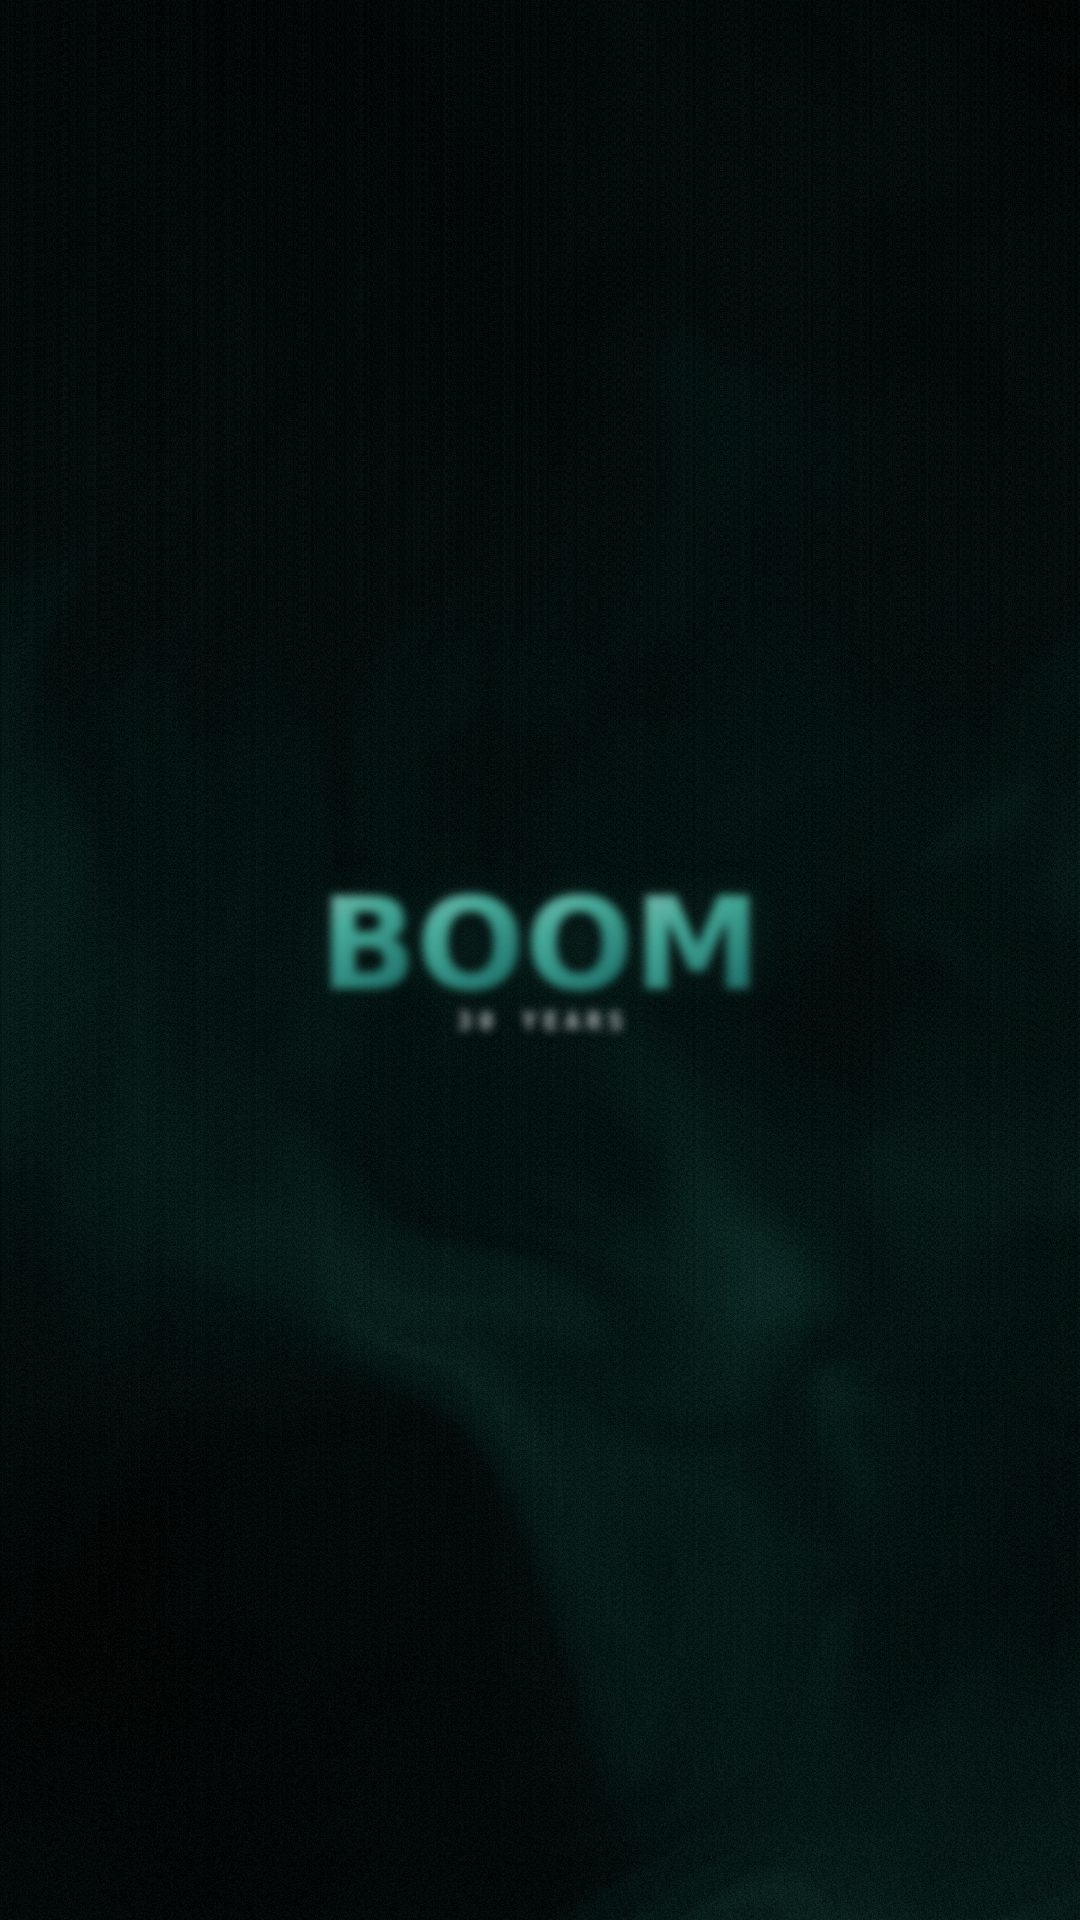
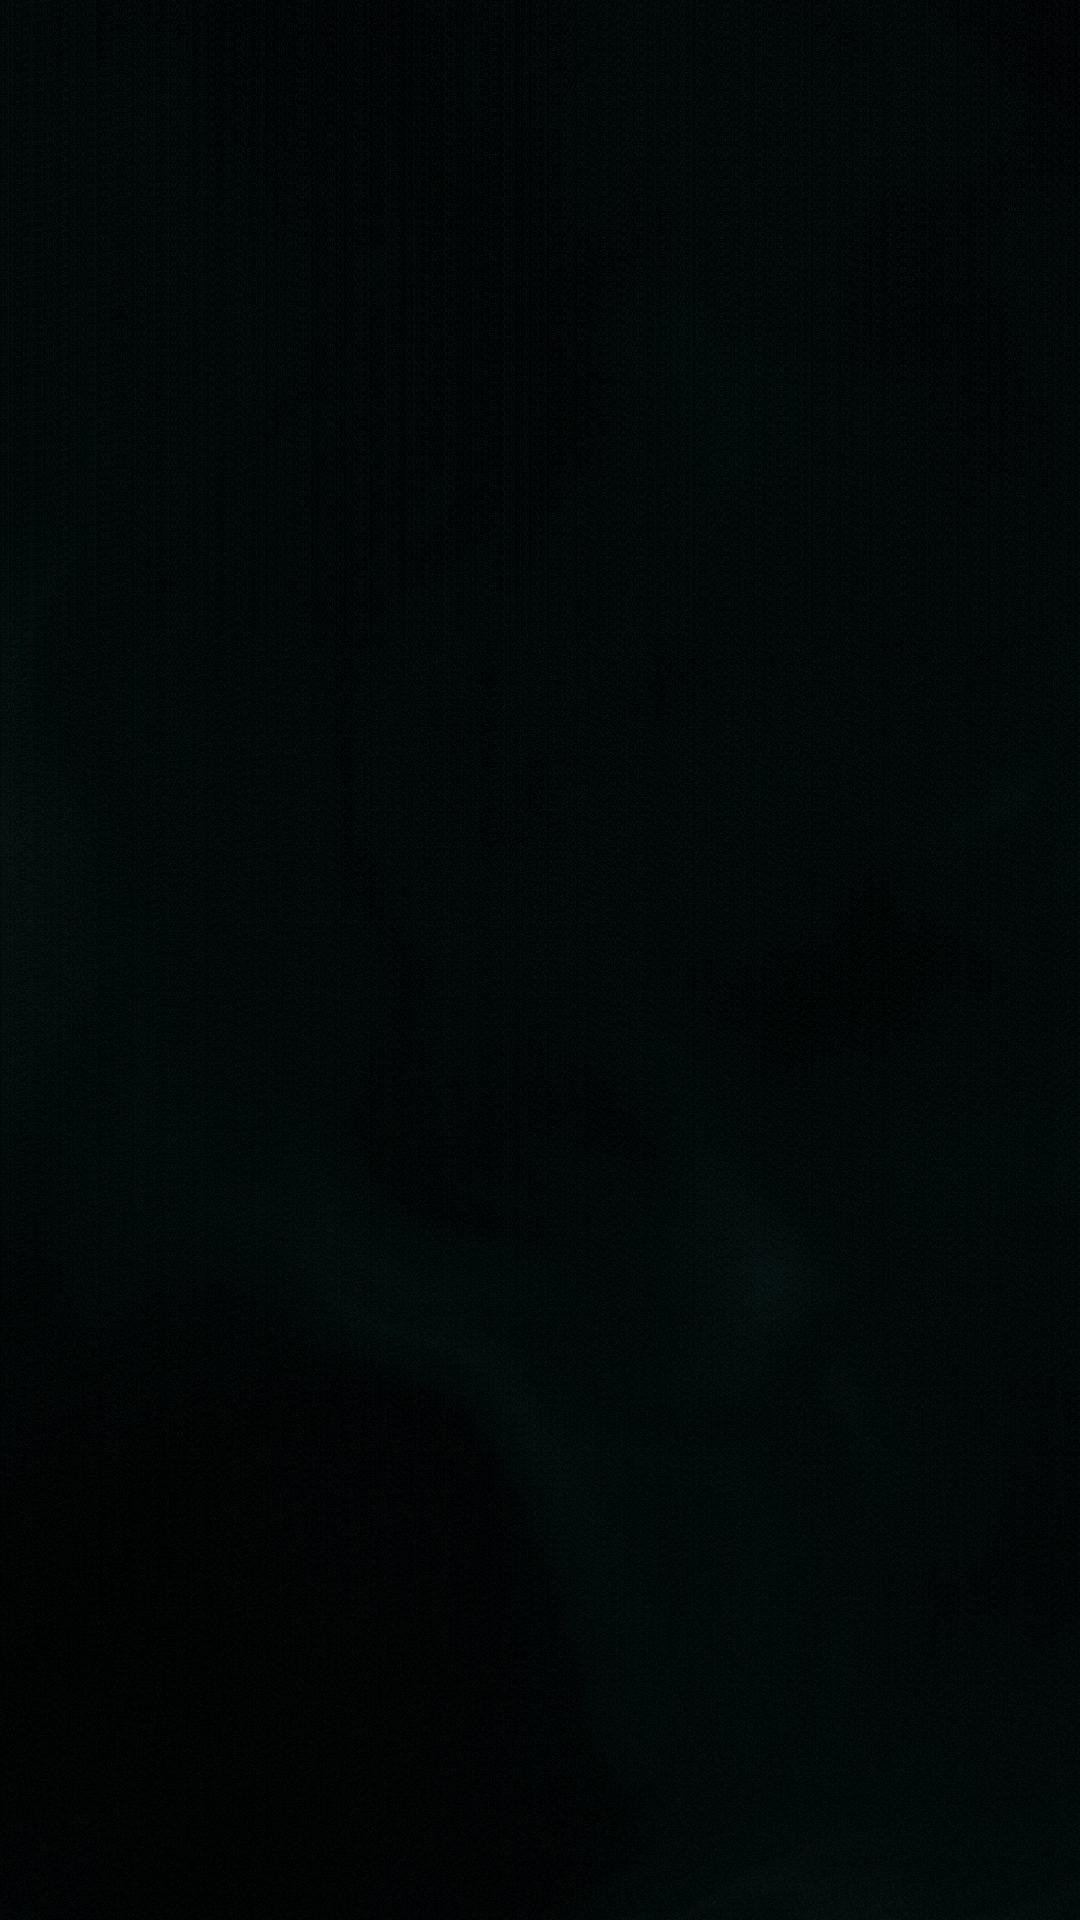
Add heavy retro dither overlay

Changed region(s): [[0.275, 0.4375, 0.7028, 0.5625], [0.6417, 0.625, 0.7333, 0.6875]]

diff --git a/index.html b/index.html
@@ -41,6 +41,7 @@
     position:fixed; inset:0; overflow:hidden; background:#04100e;
     touch-action:none;   /* the stage owns touch: drag-smear + tap, no browser scroll/zoom */
     container-type:size; container-name:stage;   /* text sizes in cq units scale to the stage box */
+    isolation:isolate;
   }
   @media (min-aspect-ratio: 9/16){
     #stage{
@@ -52,6 +53,44 @@
 
   #plasma,#fallback{ position:absolute; inset:0; width:100%; height:100%; display:block; }
   #plasma{ z-index:0; }
+  #retro-dither{
+    position:absolute; inset:-4%; z-index:1; pointer-events:none;
+    background:
+      radial-gradient(circle at 50% 45%, rgba(255,255,255,.16), transparent 28%),
+      linear-gradient(180deg, rgba(20,14,28,.18), rgba(8,10,16,.2) 20%, rgba(0,0,0,.6) 100%),
+      repeating-linear-gradient(
+        to bottom,
+        rgba(255,255,255,.16) 0 1px,
+        rgba(12,12,18,.05) 1px 2px,
+        rgba(255,255,255,.11) 2px 3px,
+        rgba(0,0,0,.14) 3px 4px
+      ),
+      repeating-linear-gradient(
+        to right,
+        rgba(127,233,214,.22) 0 1px,
+        rgba(70,32,90,.16) 1px 2px,
+        rgba(127,233,214,.12) 2px 3px,
+        rgba(0,0,0,.16) 3px 4px
+      );
+    background-size:100% 100%, 100% 100%, 100% 100%, 100% 100%;
+    mix-blend-mode: overlay;
+    opacity:.92;
+    filter:contrast(2.3) brightness(.8) saturate(1.8) blur(.15px);
+    animation:ditherPulse 4.2s ease-in-out infinite alternate,
+              ditherShift 0.7s steps(2) infinite alternate;
+    box-shadow: inset 0 0 24px rgba(127,233,214,.18), inset 0 0 48px rgba(107,74,156,.14);
+  }
+  @keyframes ditherPulse{
+    0%   { opacity:.72; transform:translate3d(-1.2%, .2%, 0) scale(1.03) skewX(-2deg); }
+    35%  { opacity:.9;  transform:translate3d(.6%, -.4%, 0) scale(1.06) skewX(1.2deg) rotate(.18deg); }
+    65%  { opacity:1;   transform:translate3d(-.7%, .8%, 0) scale(1.09) skewX(-1deg) rotate(-.18deg); }
+    100% { opacity:.82; transform:translate3d(1.2%, -.7%, 0) scale(1.11) skewX(2deg); }
+  }
+  @keyframes ditherShift{
+    0%   { background-position:0 0, 0 0, 0 0, 0 0; }
+    50%  { background-position:0 0, 0 0, 0 4px, 7px 0; }
+    100% { background-position:0 0, 0 0, 0 -4px, -7px 0; }
+  }
   /* hypermode: background AND text/foreground hue-shift together, one step per beat */
   body.hyper #plasma,body.hyper #fallback,
   body.hyper #overlay,body.hyper #rsvp{ filter:hue-rotate(var(--hue,0deg)); }
@@ -302,6 +341,7 @@
 <main id="stage">
   <canvas id="plasma"></canvas>
   <div id="fallback"></div>
+  <div id="retro-dither" aria-hidden="true"></div>
 
   <div id="overlay">
     <div class="beat" data-beat="0"></div>
